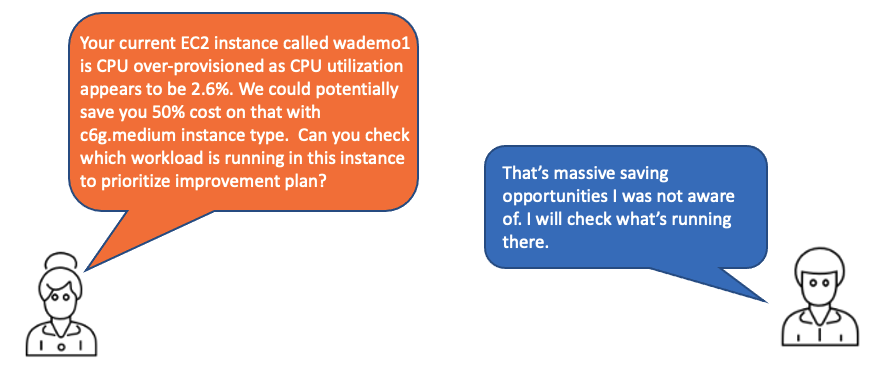
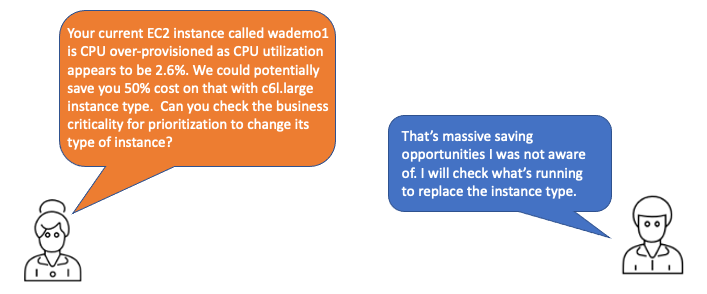
replaced screenthos at review section(4)

diff --git a/content/Well-ArchitectedTool/200_Labs/200_Integration_with_AWS_Compute_Optimizer_and_AWS_Trusted_Advisor/4_perform_review.md b/content/Well-ArchitectedTool/200_Labs/200_Integration_with_AWS_Compute_Optimizer_and_AWS_Trusted_Advisor/4_perform_review.md
@@ -22,7 +22,7 @@ For **COST 6** question, the following best practices are what a reviewer will v
 * Select resource type, size, and number based on data
 * Select resource type, size, and number automatically based on metrics
 
-For example, let’s take a scenario of right-sizing an Amazon EC2 Instance and we assume we do not have 
+For example, let’s take a scenario of right-sizing an Amazon EC2 Instance and we assume we do not have enough data that supports your answer. 
 ![Section4 Review1](/watool/200_Integration_with_AWS_Compute_Optimizer_and_AWS_Trusted_Advisor/Images/section4/Review1.png)
 
 The methodology that customer used to determine the size of EC2 Instance is not too bad approach but it does not tell whether the current resources are optimized based on the actual usage from a cost and performance standpoint. Then, the reviewer will try to identify if vCPU, memory, and storage are the most cost optimized by asking a follow-up question as follows:
